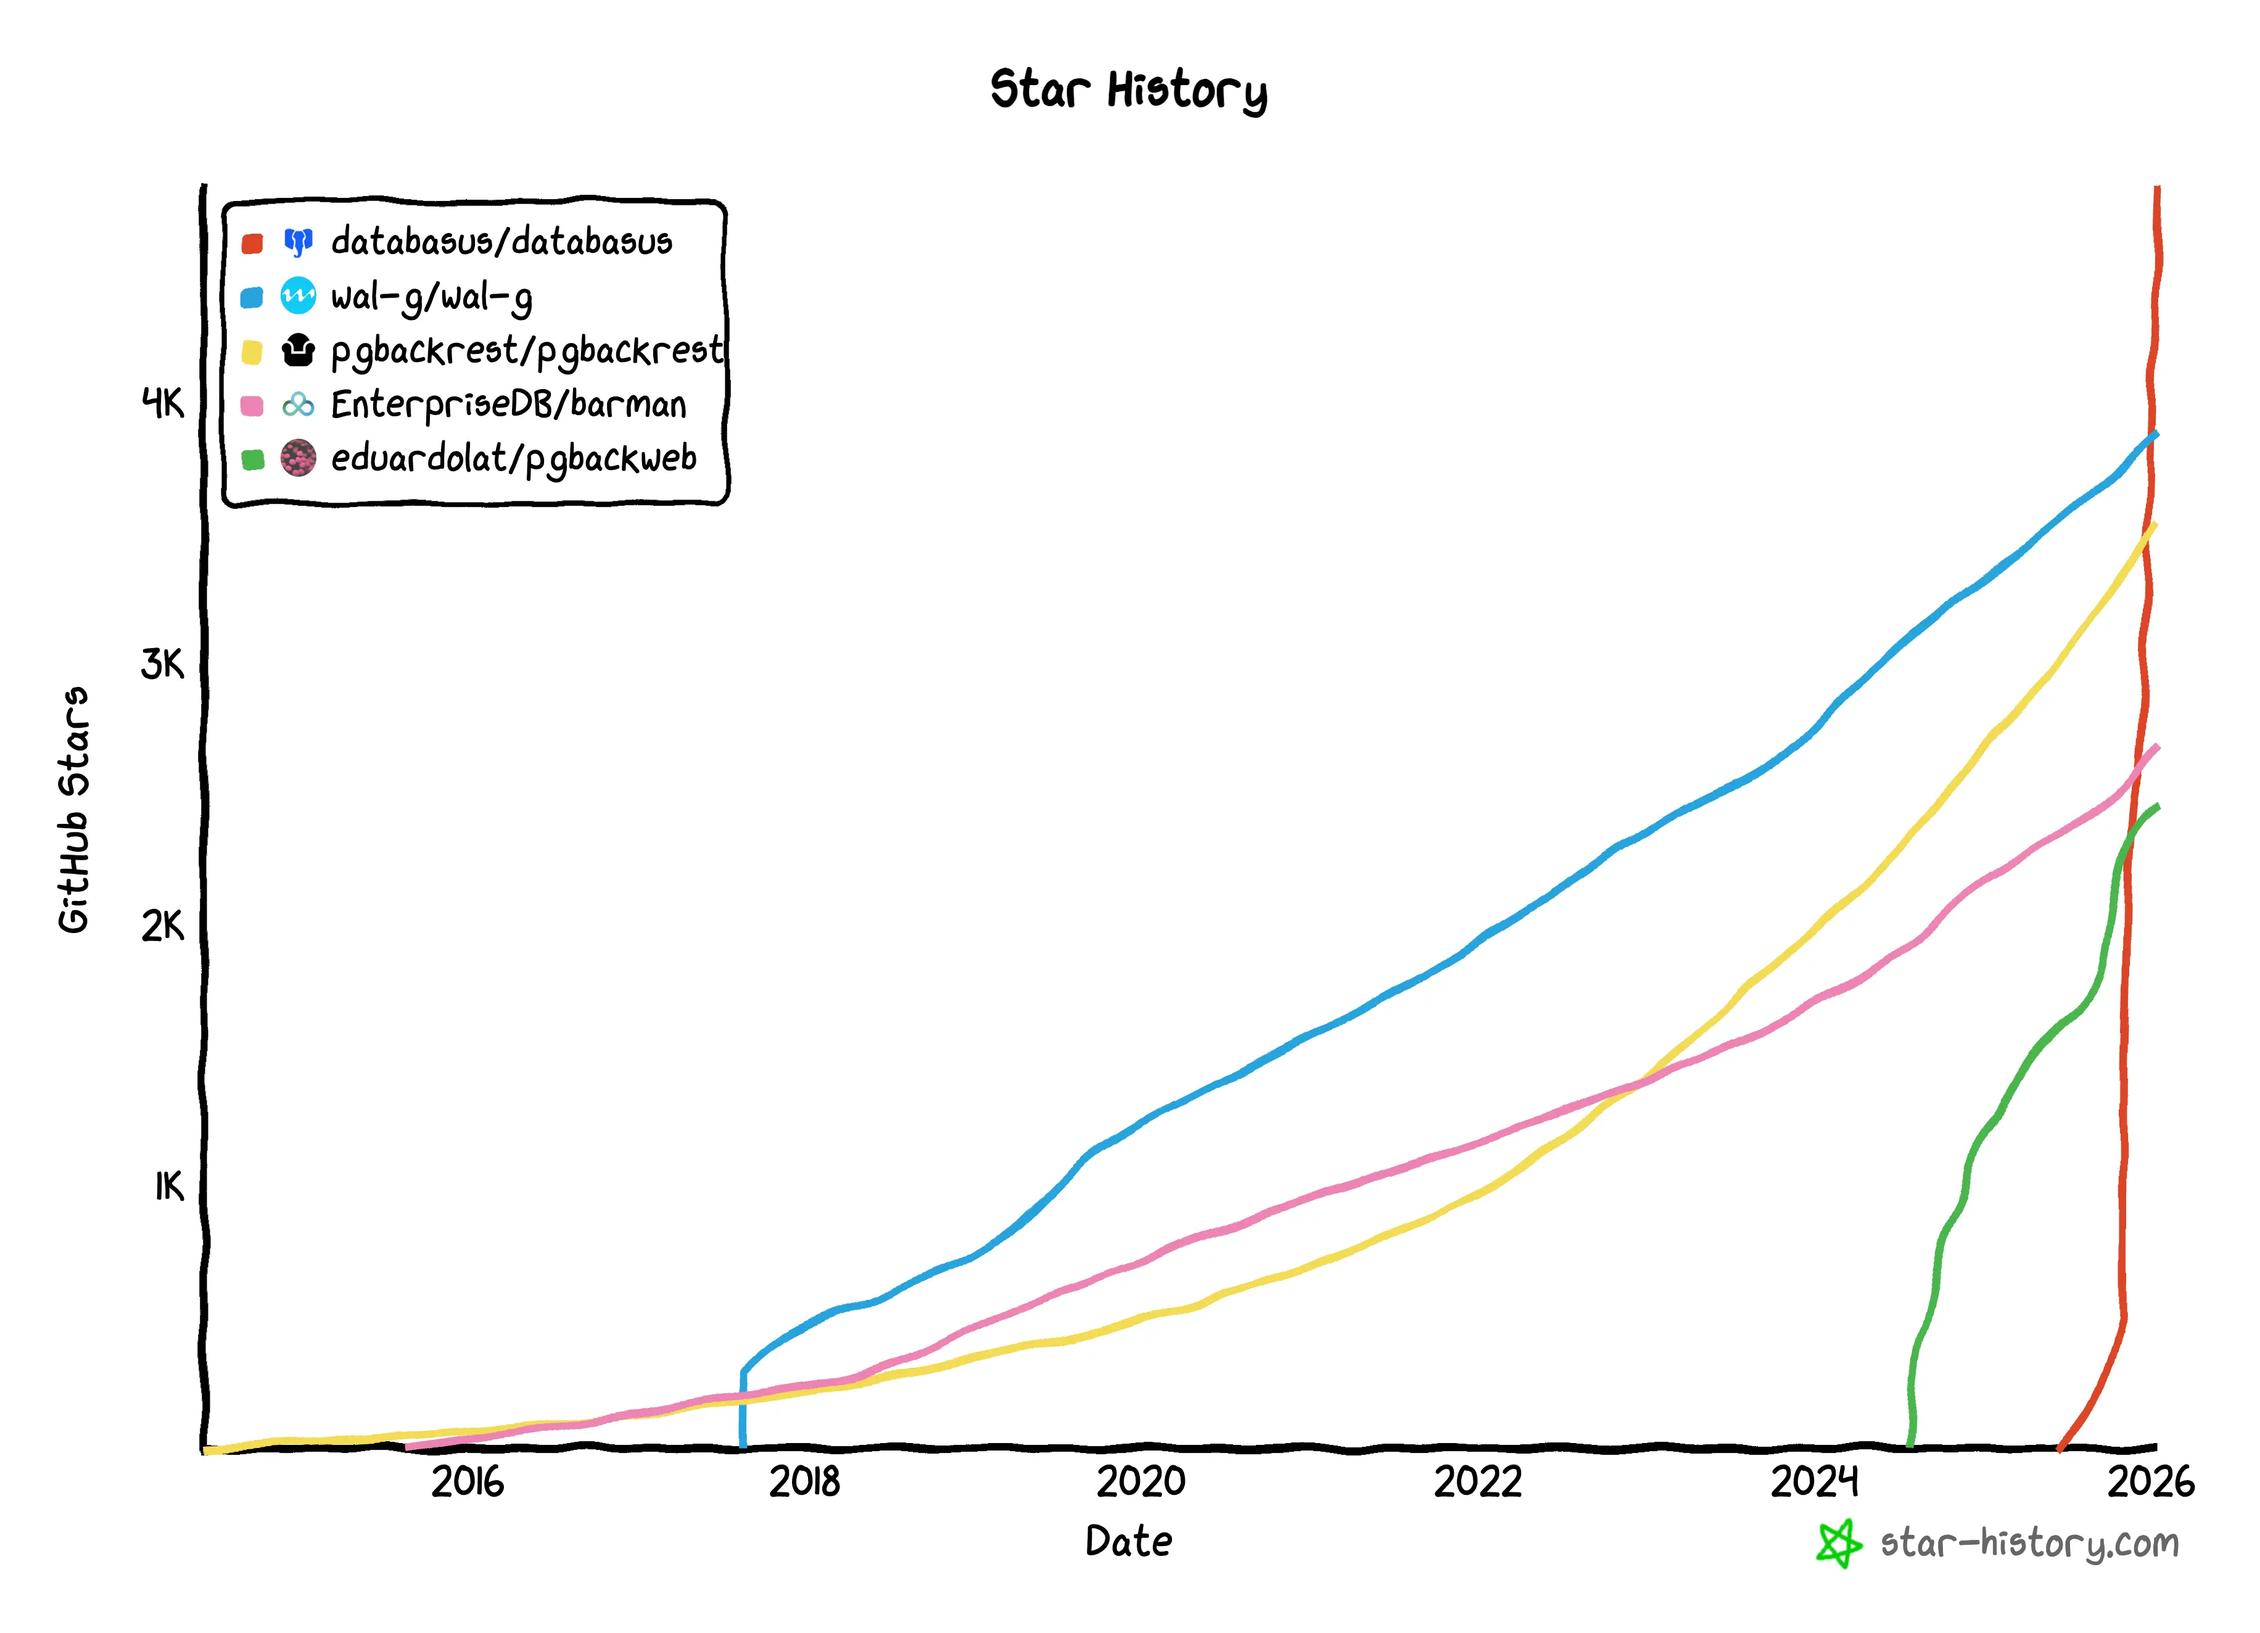
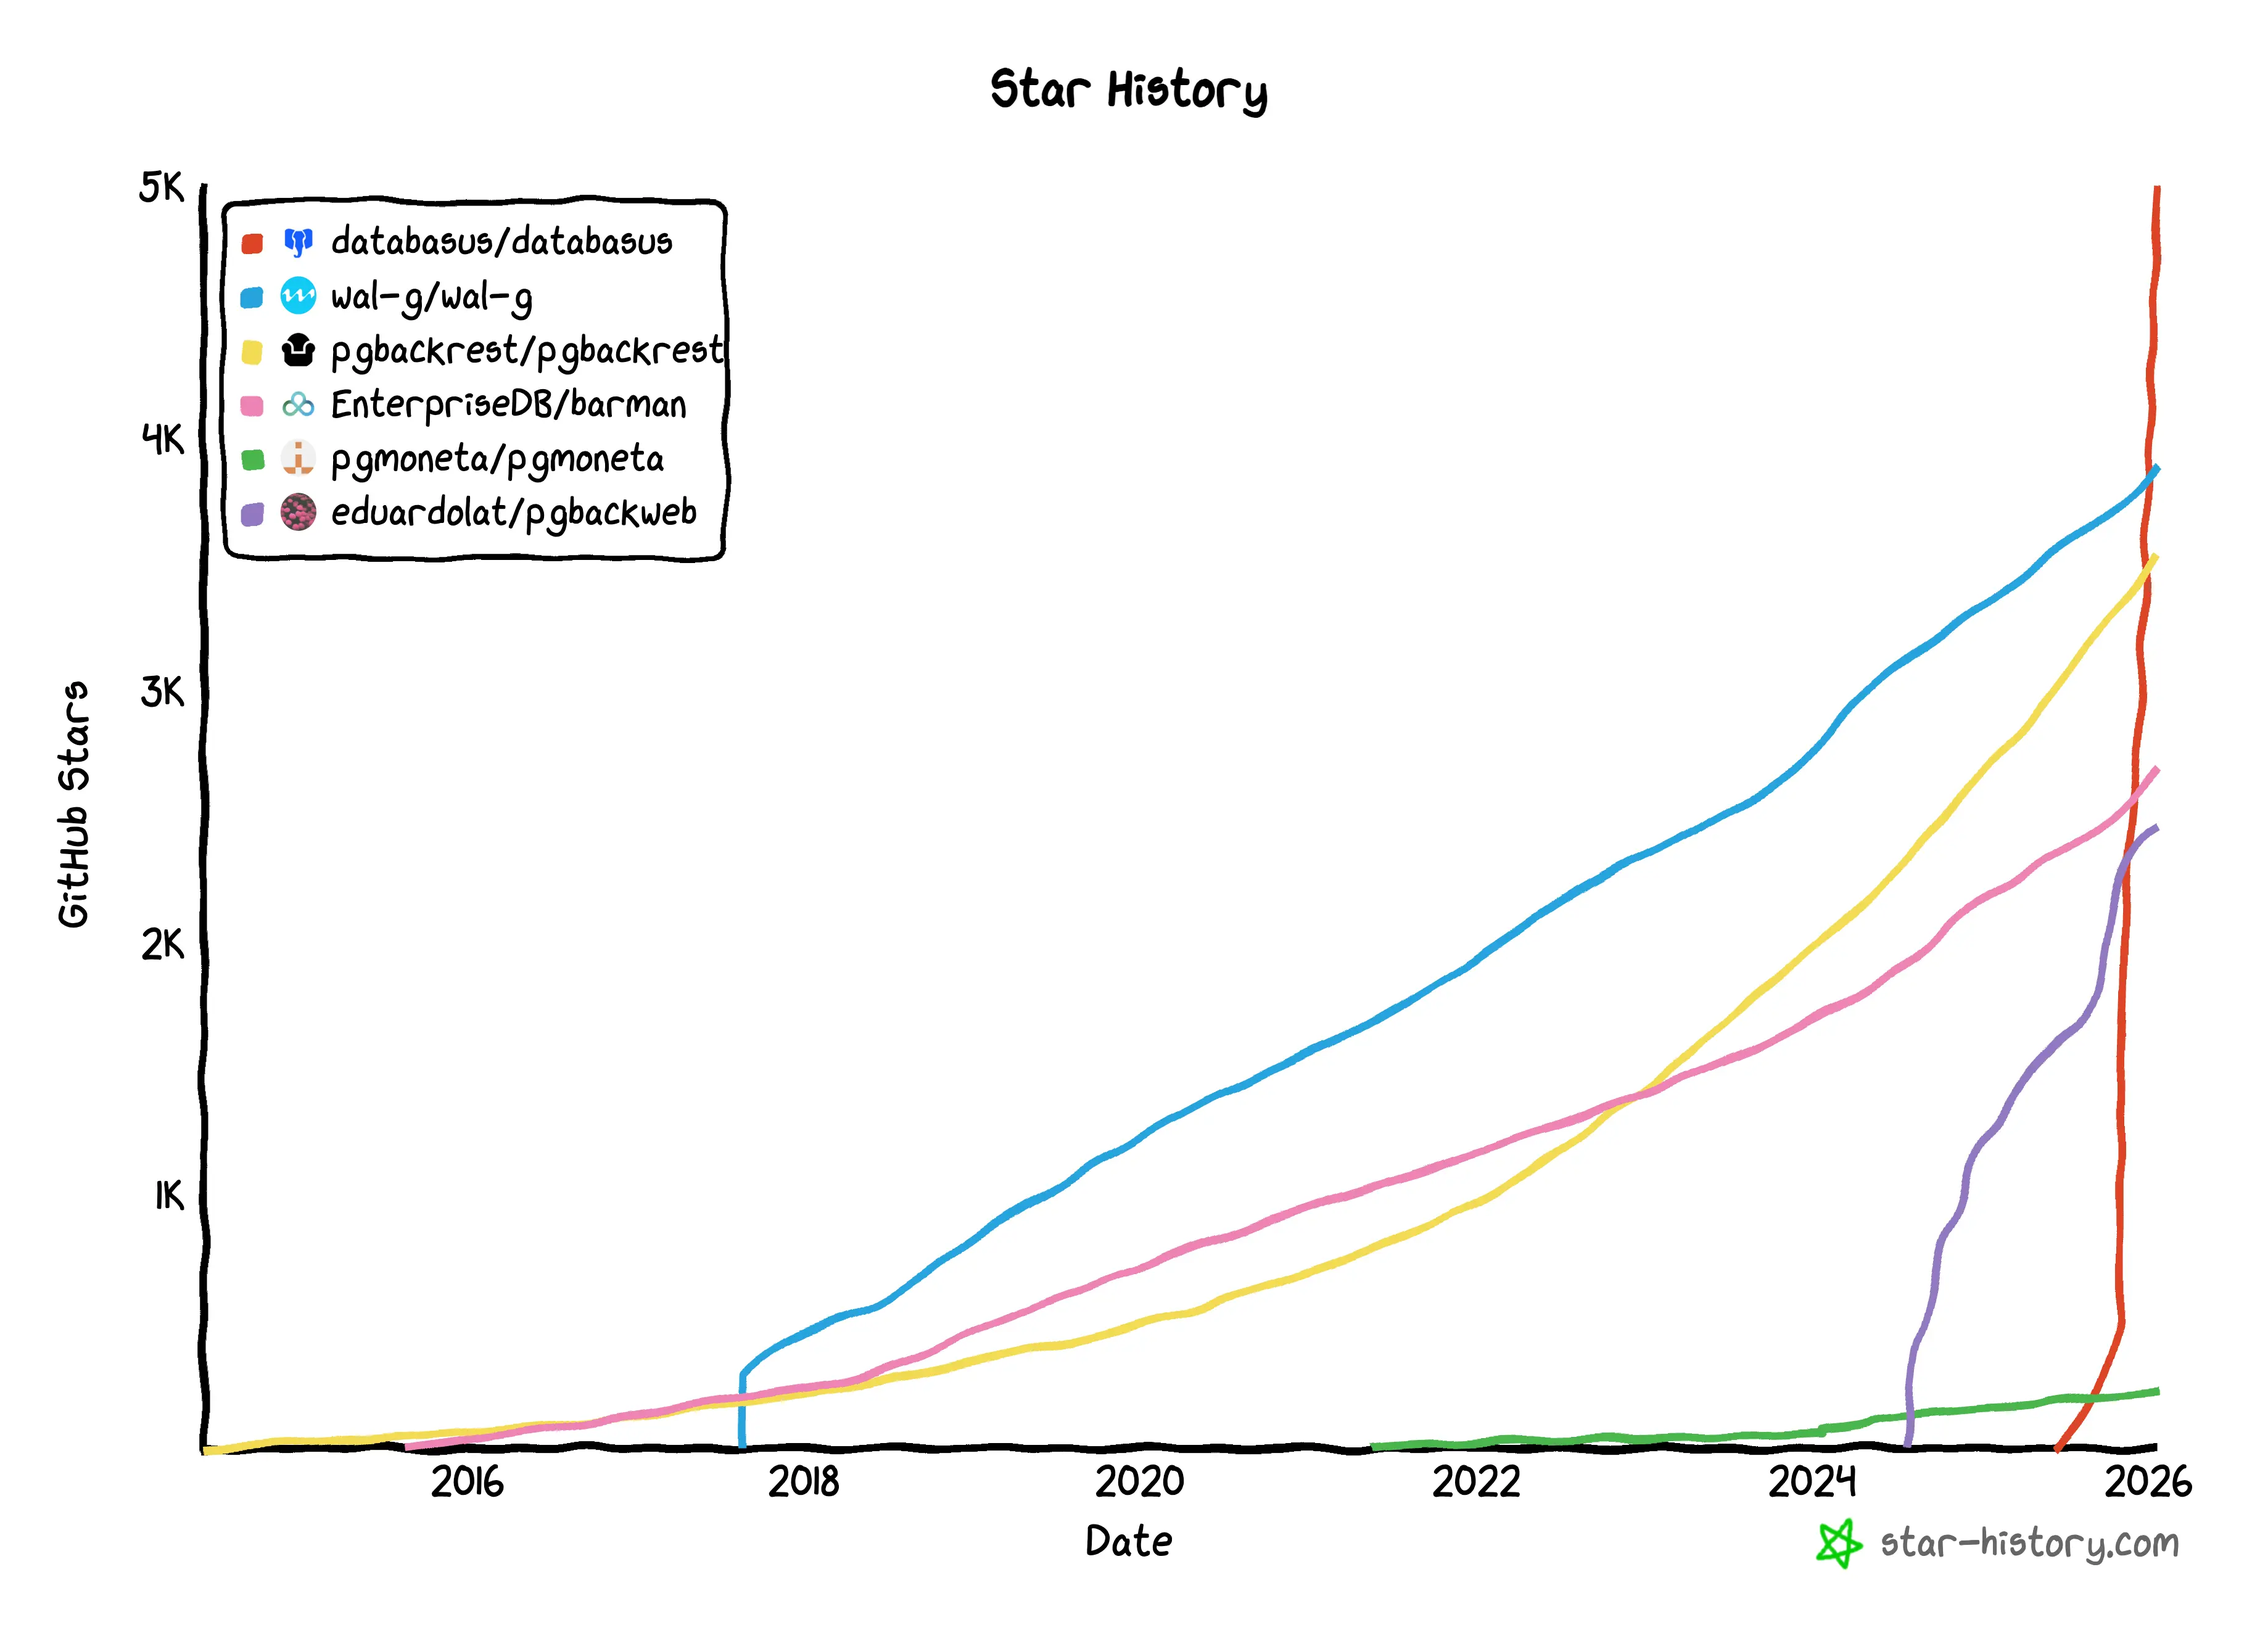
blog: update pg backup solution with pgmoneta

diff --git a/content/blog/top-open-source-postgres-backup-solution.md b/content/blog/top-open-source-postgres-backup-solution.md
@@ -11,7 +11,7 @@ Backing up PostgreSQL is essential for reliability and disaster recovery. The op
 
 Below is a curated list of the top PostgreSQL backup solutions, compared across multiple dimensions: language and ideal use cases.
 
-![star-history](/content/blog/top-open-source-postgres-backup-solution/star-history.webp)
+[![star-history](/content/blog/top-open-source-postgres-backup-solution/star-history.webp)](https://www.star-history.com/#databasus/databasus&wal-g/wal-g&pgbackrest/pgbackrest&EnterpriseDB/barman&pgmoneta/pgmoneta&eduardolat/pgbackweb)
 
 ## Databasus
 
@@ -63,6 +63,18 @@ pgBackRest, is designed for speed, reliability, and flexibility. It supports ful
 
 Barman (**B**ackup **A**nd **R**ecovery Manager) is an open-source administration tool for disaster recovery of PostgreSQL servers written in Python. It allows your organisation to perform remote backups of multiple servers in business critical environments to reduce risk and help DBAs during the recovery phase.
 
+## pgmoneta
+
+- **GitHub:** https://github.com/pgmoneta/pgmoneta
+- **Language:** C
+- **Maintainer:** Community
+- **License:** BSD-3-Clause
+- **Interface:** CLI (daemon mode)
+- **Supported Databases:** PostgreSQL only
+- **Best For:** Teams needing efficient daemon-based backup with incremental support
+
+pgmoneta is a backup and restore solution for PostgreSQL, named after the Roman Goddess of Memory. It runs as a daemon and supports full and incremental backups (PostgreSQL 14+), multiple compression options (gzip, zstd, lz4, bzip2), AES encryption, and WAL shipping. It features Prometheus monitoring integration, remote management capabilities, and TLS v1.2+ support. Built with a process-based model using shared memory and libev for efficient network operations.
+
 ## pgBackWeb
 
 - **GitHub:** https://github.com/eduardolat/pgbackweb
@@ -79,13 +91,14 @@ pgBackWeb provides a user-friendly web dashboard on top of pgBackRest. It enable
 
 ## Comparison Table
 
-| Tool           | Language        | License    | Interface | Multi-DB Support | Cloud Storage       |
-| -------------- | --------------- | ---------- | --------- | ---------------- | ------------------- |
-| **Databasus**  | Go + TypeScript | Apache 2.0 | Web UI    | ✅               | ✅                  |
-| **WAL-G**      | Go              | Apache 2.0 | CLI       | ✅               | ✅                  |
-| **pgBackRest** | C               | MIT        | CLI       | ❌               | ✅                  |
-| **Barman**     | Python          | GNU GPL 3  | CLI       | ❌               | ✅                  |
-| **pgBackWeb**  | Go + JavaScript | AGPL-3.0   | Web UI    | ❌               | ✅ (via pgBackRest) |
+| Tool           | Language        | License      | Interface    | Multi-DB Support | Cloud Storage       |
+| -------------- | --------------- | ------------ | ------------ | ---------------- | ------------------- |
+| **Databasus**  | Go + TypeScript | Apache 2.0   | Web UI       | ✅               | ✅                  |
+| **WAL-G**      | Go              | Apache 2.0   | CLI          | ✅               | ✅                  |
+| **pgBackRest** | C               | MIT          | CLI          | ❌               | ✅                  |
+| **Barman**     | Python          | GNU GPL 3    | CLI          | ❌               | ✅                  |
+| **pgmoneta**   | C               | BSD-3-Clause | CLI (daemon) | ❌               | ❌                  |
+| **pgBackWeb**  | Go + JavaScript | AGPL-3.0     | Web UI       | ❌               | ✅ (via pgBackRest) |
 
 ## Choosing the Right Tool
 
@@ -93,6 +106,7 @@ pgBackWeb provides a user-friendly web dashboard on top of pgBackRest. It enable
 - **WAL-G** — best for multi-database, cloud-native setups.
 - **pgBackRest** — the most complete solution for high-performance and cloud-integrated PostgreSQL.
 - **Barman** — fits enterprise environments with strict compliance.
+- **pgmoneta** — lightweight daemon-based solution with incremental backup and monitoring support.
 - **pgBackWeb** — ideal if you prefer a GUI for pgBackRest.
 
 Each project offers a unique trade-off between simplicity, scalability, and ecosystem support. Pick based on your environment’s scale, cloud strategy, and team expertise.
